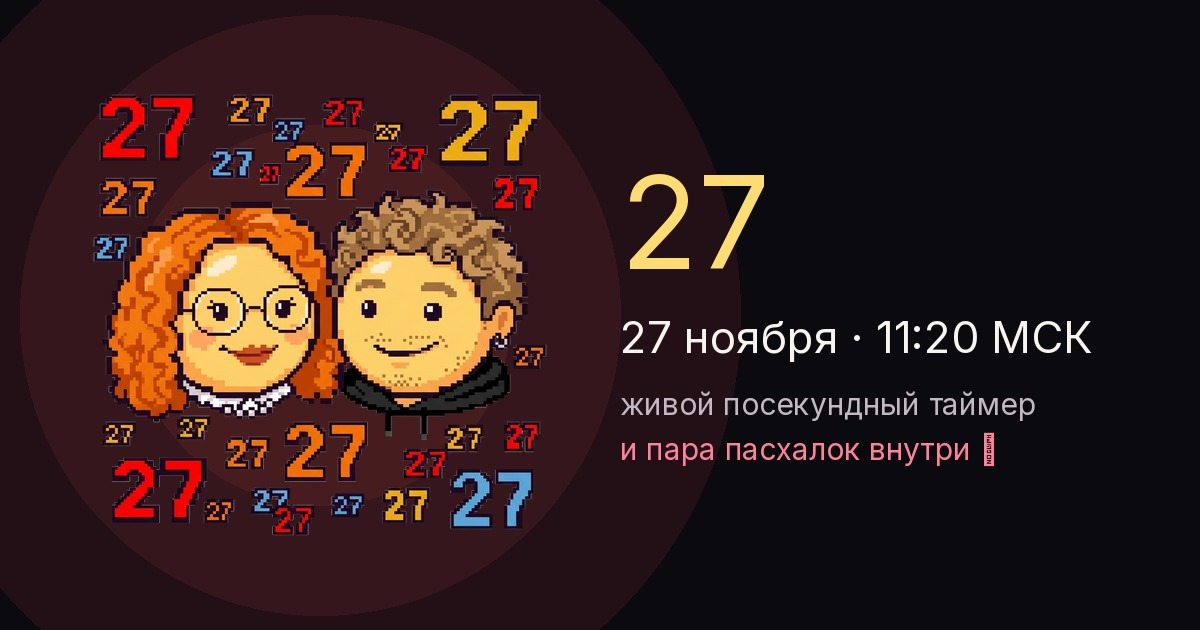
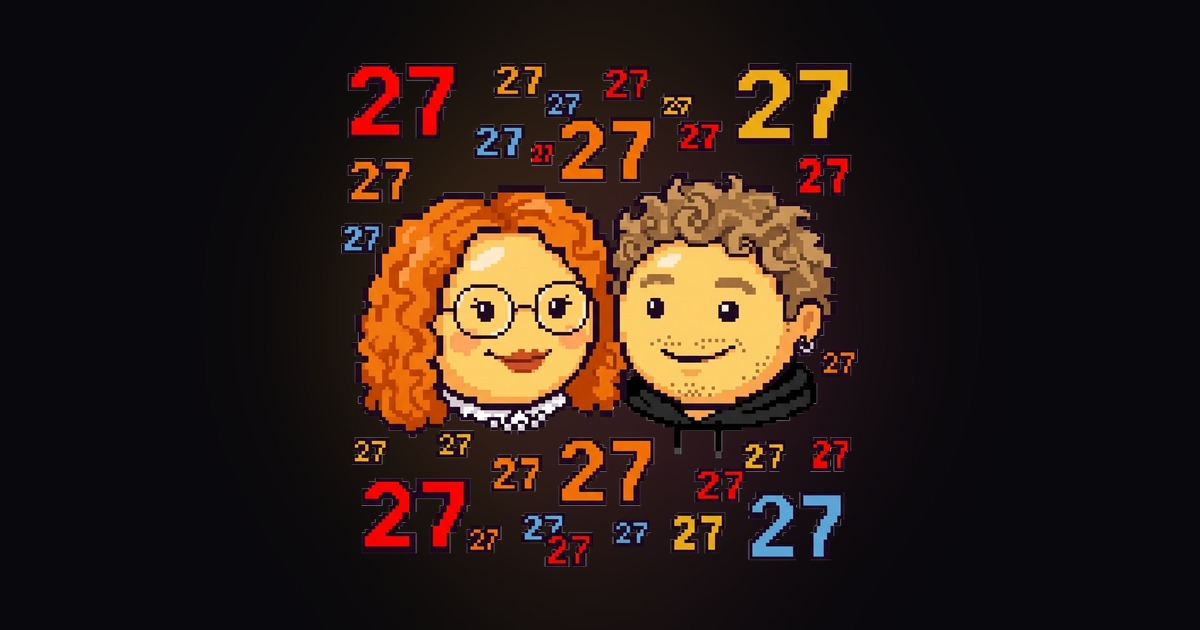
Only 27 metadata, clean cover, strict Horny Police toggle

diff --git a/index.html b/index.html
@@ -7,8 +7,7 @@
   <title>27</title>
   <meta property="og:type" content="website" />
   <meta property="og:title" content="27" />
-  <meta property="og:description" content="живой таймер до 27 ноября" />
-  <meta property="og:image" content="https://mqrkin.github.io/27/assets/og_27.jpg" />
+  <meta property="og:image" content="https://mqrkin.github.io/27/assets/og_27.jpg?v=2" />
   <meta property="og:image:width" content="1200" />
   <meta property="og:image:height" content="630" />
   <meta name="twitter:card" content="summary_large_image" />
@@ -427,9 +426,12 @@
     const sirenBtn = document.getElementById('sirenBtn');
     const sirenOverlay = document.getElementById('sirenOverlay');
     let sirenTimer = null;
+    let lastHorny = 5;
     sirenBtn.addEventListener('click', (e) => {
       e.stopPropagation();
-      setSticker(Math.random() < 0.5 ? 4 : 5);
+      const nextHorny = curSticker === 4 ? 5 : curSticker === 5 ? 4 : (lastHorny === 4 ? 5 : 4);
+      lastHorny = nextHorny;
+      setSticker(nextHorny);
       sirenOverlay.classList.add('active');
       burst(window.innerWidth / 2, window.innerHeight * 0.28, 18);
       if (navigator.vibrate) navigator.vibrate([25, 45, 25]);
